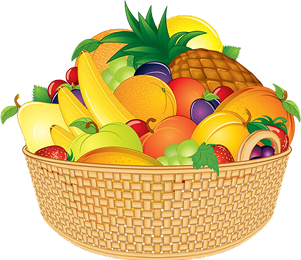
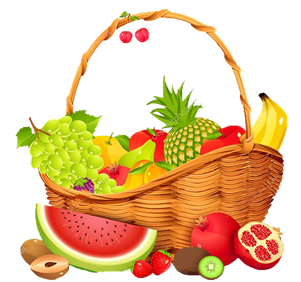
feat: add fruit colors

diff --git a/lib/util/assets.dart b/lib/util/assets.dart
@@ -3,8 +3,8 @@ class Assets {
 
   static final baseImage = 'assets/images/';
 
-  static final fruitBasketPage1 = '${baseImage}fruit_basket_page1.png';
-  static final fruitBasketPage2 = '${baseImage}fruit_basket_page2.png';
+  static final fruitBasketPage1 = '${baseImage}fruit_basket_page2.png';
+  static final fruitBasketPage2 = '${baseImage}fruit_basket_page1.png';
   static final fruitDrops = '${baseImage}fruit_drops.png';
   static final fruitBasketPageShadow = '${baseImage}fruit_basket_page_shadow.png';
 

diff --git a/lib/util/colors.dart b/lib/util/colors.dart
@@ -1,0 +1,10 @@
+
+class FruitColor{
+
+  static final int orangeColor = 0xFFFFA451 ;
+  static final int navyBlueColor = 0xFF27214D;
+  static final int lightNavyBlueColor = 0xFF5D577E;
+  static final int greyColor = 0xFFF3F1F1;
+  static final int darkGrayColor = 0xFFC2BDBD;
+
+}
